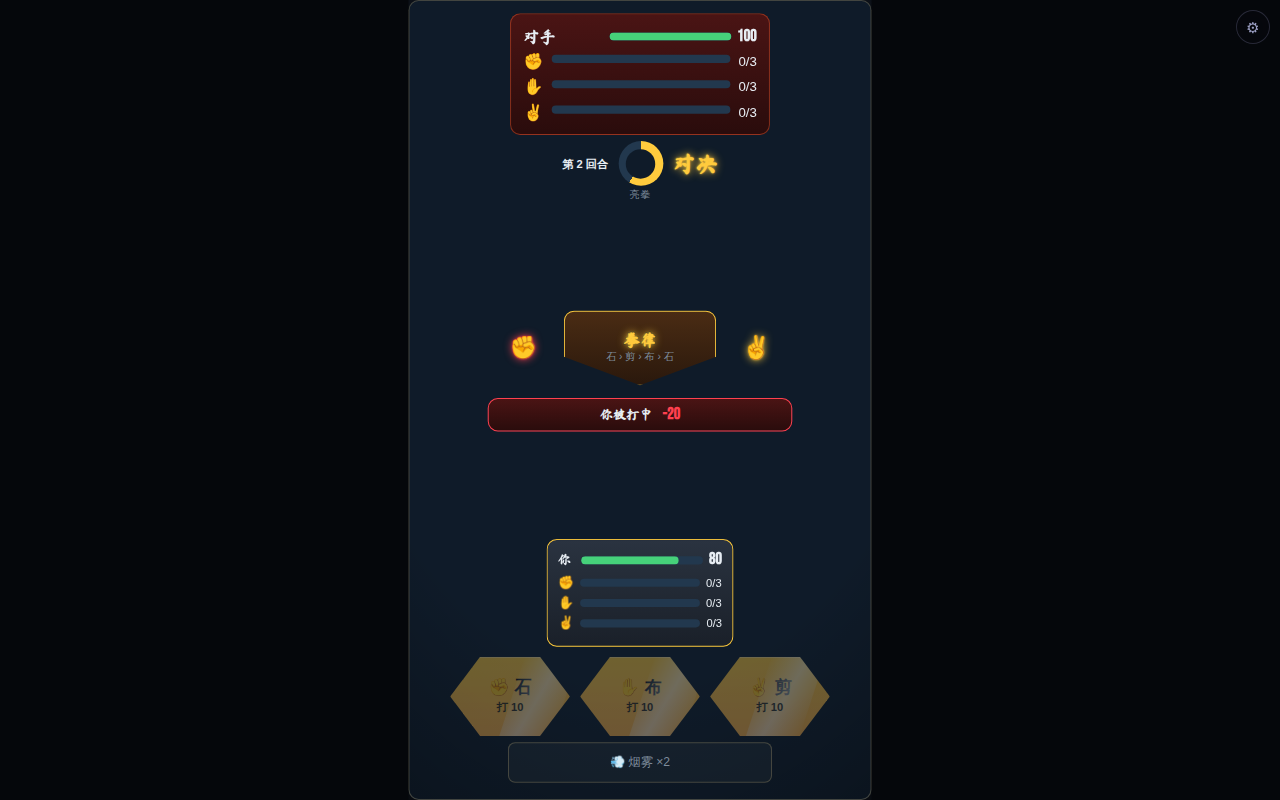
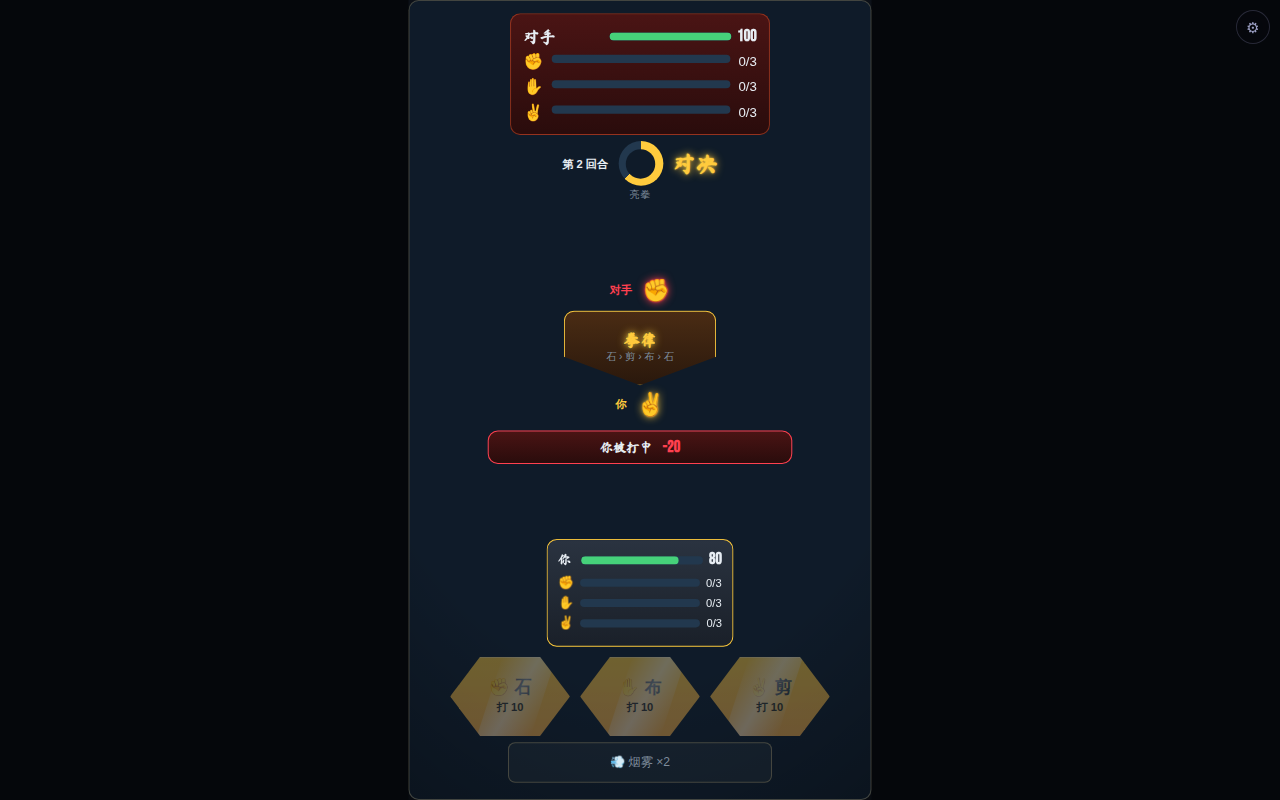
fix(game108): 亮手的**归属与时效**——owner 一句「哪个是我出的」问出两处硬伤
**归属**：揭晓时两只拳左右排、**屏上零文字**，玩家不知道哪只是自己出的。唯一区别是颜色
（金=你/红=对手），而这个约定从没告诉过玩家；更糟的是面板本身是**上下**布局（对手在上、
你在下），亮手却是**左右** ⇒ 空间映射直接断了。
→ 改**上下排 + 每侧带名字**（「对手 ✊」/「你 ✋」），与面板上下关系严丝合缝。

**时效**（顺着上一条查出来的，更隐蔽）：亮手读 `lastThrow`、结果读血量差，**两者都要等结算**，
而结算比「进揭晓」晚一拍 ⇒ 揭晓头一段摆的是**上一回合**的手和伤害——
真渲染目击：我明明出了布，屏上写「你 ✌剪 · 你被打中 -20」。
→ 用回合数判「本回合结算落地没有」（结算会把 round +1），没落地就不亮手、不出结果。
→ 试玩探针同步补等结算再拍，否则拍到的是上一回合（探针自己也踩了这个坑）。

**制度化**：`self-check.md` 七问 → **八问**，新增
「**屏上每样东西，玩家知道它是谁的、是哪一刻的吗？**（归属 + 时效）」，并进 S4 复查清单。
写清补它的教训：**前七问全在问「信息在不在」，没有一问在问「这信息是谁的、是哪一刻的」。**

试玩 30 条全过 · 门禁 full 全绿（退出码核对）。

Claude-Session: https://claude.ai/code/session_01CxgHiwPr3Q9y3548zpXfcV

diff --git a/games/game108/game108.ts b/games/game108/game108.ts
@@ -48,21 +48,29 @@ export function mount(container: HTMLElement): () => void {
     for (const s of SIDES) {
       if (prevHp[s] > hp[s]) lastOutcome = { winner: s === 'p1' ? 'p2' : 'p1', damage: prevHp[s] - hp[s] };
     }
-    if (phase === 'clash' && prevPhase !== 'clash') tieThisRound = true;      // 进对决先假定平局
+    const round = num('round') || 1;
+    // **本回合结算落地了没有**（真渲染目击到的坑）：亮手读的是 `lastThrow`、结果读的是血量差，
+    // 而这两样都要等结算那一拍才更新——结算比「进对决」晚一拍。不判这个，进对决的头一小段
+    // 屏上摆的是**上一回合**的手和伤害：我明明出了布，屏上写「你 ✌剪 · 被打中 -20」。
+    // 判据用回合数：结算会把 `round` +1，所以 `round > roundAtClash` ⇔ 本回合已结算。
+    if (phase === 'clash' && prevPhase !== 'clash') { roundAtClash = round; lastOutcome = undefined; tieThisRound = true; }
+    const settled = round > roundAtClash;
     if (lastOutcome && lastOutcome.damage > 0) tieThisRound = false;
     prevHp = { ...hp }; prevPhase = phase;
 
     return {
       phase,
       phaseLeft: total > 0 ? Math.max(0, 1 - elapsed / total) : 0,
-      round: num('round') || 1,
+      round,
       hp,
       charge,
       smoke: { uses: num('smoke:uses:p1'), hidden: !!(engine.world.getComponent('smoke:res:p1', 'Flag') as { active: boolean } | undefined)?.active },
       ...(intent ? { submitted: intent.throw } : {}),
-      ...(phase === 'clash' || phase === 'settle' ? { shown } : {}),
-      ...(lastOutcome ? { outcome: lastOutcome } : tieThisRound && (phase === 'clash' || phase === 'settle') && shown.p1 && shown.p2
-        ? { outcome: { winner: 'tie' as const, damage: 0 } } : {}),
+      // 只有本回合真结算了才亮手/出结果——否则揭晓期摆的是上一回合的数据（见上面 settled 注释）。
+      ...(settled && (phase === 'clash' || phase === 'settle') ? { shown } : {}),
+      ...(settled && lastOutcome ? { outcome: lastOutcome }
+        : settled && tieThisRound && (phase === 'clash' || phase === 'settle') && shown.p1 && shown.p2
+          ? { outcome: { winner: 'tie' as const, damage: 0 } } : {}),
     };
   }
 
@@ -70,6 +78,7 @@ export function mount(container: HTMLElement): () => void {
   let prevHp: Record<Side, number> = { p1: HP_MAX, p2: HP_MAX };
   let prevPhase: Phase = 'charge';
   let tieThisRound = false;
+  let roundAtClash = 0;
   let lastOutcome: { winner: Side | 'tie'; damage: number } | undefined;
 
   /**

diff --git a/games/game108/duel-screen.ts b/games/game108/duel-screen.ts
@@ -181,10 +181,31 @@ function tableRow(view: DuelView): LayoutNode {
       ? { text: HAND_ICON[shown[side]], size: 'xl', color: side === 'p1' ? 'gold' : 'danger', stroke: true, glow: true }
       : { text: '❔', size: 'lg', color: 'sub' },
   });
+  /** 一侧的亮手：**带名字**，且**上下排布与面板一致**（对手在上、你在下）。 */
+  const row = (side: Side, id: string, name: string): LayoutNode => ({
+    type: 'Panel', id: `${id}-row`, props: { bare: true },
+    layout: { direction: 'row', align: 'center', justify: 'center', gap: 10, width: 240 },
+    children: [
+      {
+        type: 'Label', id: `${id}-n`,
+        props: { text: name, size: 'sm', color: side === 'p1' ? 'gold' : 'danger', bold: true },
+      },
+      hand(side, id),
+    ],
+  });
   return {
+    // ⚠ **归属可读**（owner 2026-08-07 当场指出·我的七问整个漏了这一维）：
+    // 第一版是「对手的手 | 石板 | 你的手」**横排且零文字**——玩家看到左右两只拳，
+    // **根本不知道哪只是自己出的**。唯一区别是颜色（金=你/红=对手），而这个约定从没告诉过玩家；
+    // 更糟的是面板本身是**上下**布局（对手在上、你在下），亮手却是**左右** ⇒ 空间映射直接断了。
+    // 现在：**上下排 + 每侧带名字**，与面板的上下关系严丝合缝。
     type: 'Panel', id: 'table', props: { bare: true },
-    layout: { direction: 'row', align: 'center', justify: 'center', gap: revealed ? 26 : 18 },
-    children: [hand('p2', 'shown-p2'), ruleSlab(), hand('p1', 'shown-p1')],
+    layout: { direction: 'column', align: 'center', justify: 'center', gap: revealed ? 6 : 4 },
+    children: [
+      row('p2', 'shown-p2', '对手'),
+      ruleSlab(),
+      row('p1', 'shown-p1', '你'),
+    ],
   };
 }
 

diff --git a/docs/playbooks/self-check.md b/docs/playbooks/self-check.md
@@ -21,7 +21,7 @@
 3. **修 → 再玩 → 更新对齐单**，循环到 ❌ 清零、⚠ 全部有裁决去向为止。每轮在对齐单尾追加一行迭代记录
    （第 N 轮·改了什么·剩几条）。
 
-## 读得懂吗·**玩家视角复核七问**（S4 对齐单必答·owner 2026-08-07 立）
+## 读得懂吗·**玩家视角复核八问**（S4 对齐单必答·owner 2026-08-07 立）
 
 > 立这条的复盘（game108·2026-08-07）：S4 全部机器证都绿了——验收剧本 10/10、递归复核 13 条零裸奔、
 > 真浏览器试玩 30 条断言、能打输也能打赢。**然后 owner 问了一句「你从玩家角度觉得表达清晰吗」，
@@ -40,6 +40,14 @@
 | 5 | **我知道现在在哪个阶段、还剩多久、第几回合吗？** | **S4**（状态可见性） |
 | 6 | **第一次打开的人，知道这些键干嘛吗？** 屏上的数字/图标有没有人解释过 | 教学设计（无则**明记为缺**） |
 | 7 | **有没有"世界侧通了但玩家点不到"的功能？** 逐条对动作词表点名核（词表里有、屏上没有 = 功能缺失，不是观感） | **S4**（功能缺失） |
+| **8** | **屏上每样东西，玩家知道它是谁的、是哪一刻的吗？**（**归属 + 时效**）指着屏上每个元素问「这是我的还是对方的」「这是这一回合的还是上一回合的」——答不出就是缺陷 | **S4**（状态可见性） |
+
+> **第 8 问是补的，补的过程本身就是教训**（同日·七问答完之后）：owner 指着揭晓画面问了一句
+> 「两个拳分别在左右两边，**哪个是我出的**？」——屏上零文字，唯一区别是颜色，而那个约定从没告诉过玩家；
+> 更糟的是面板是**上下**布局、亮手却是**左右**，空间映射直接断了。
+> 顺着这条又查出**时效**问题：亮手读的值要等结算才更新，而结算比进揭晓晚一拍 ⇒
+> 揭晓头一段摆的是**上一回合**的手和伤害（我出了布，屏上写「你 ✌剪·被打中」）。
+> **前七问全都在问「信息在不在」，没有一问在问「这信息是谁的、是哪一刻的」。** 故补第 8 问。
 
 **机器辅助**：`node scripts/ui-inventory.mjs --game <slug>` 打印「动作词表 vs 屏上真控件」的差集——
 第 7 问的机读部分（词表里有、屏上没有的会点名）。**其余六问是主观题，机器替不了，但必须作答。**

diff --git a/docs/design/game108/self-check/S4-alignment.md b/docs/design/game108/self-check/S4-alignment.md
@@ -64,6 +64,8 @@
 | 6 | 第一次打开的人知道键干嘛吗？ | ❌ 键上只有「10」没人解释 | 每个时区一句提示（「点一只手蓄力·对手看得见」）；键面副标改成「蓄力 → 20」/「打 30」 |
 | 7 | 有没有世界侧通了但玩家点不到的？ | ❌ **烟雾键根本不在屏上** | 补上烟雾键；**并做了机器检查** `scripts/ui-inventory.mjs`（词表 vs 屏上真控件差集）——它当场点名了 3 个够不着的动作 |
 
+| **8** | 屏上每样东西玩家知道是谁的、哪一刻的？ | ❌❌ **两处硬伤**（owner 当场指出，我的七问整个漏了这一维）：① 揭晓时两只拳左右排、**零文字**，玩家不知道哪只是自己的；且面板是上下布局、亮手却是左右，**空间映射断了** ② 亮手读 `lastThrow`、结果读血量差，两者都要等结算，而结算比进揭晓晚一拍 ⇒ 揭晓头一段摆的是**上一回合**的手和伤害（我出了布，屏上写「你 ✌剪 · 被打中 -20」） | ① 改**上下排 + 每侧带名字**（「对手 ✊」/「你 ✋」），与面板上下关系严丝合缝 ② 用回合数判「本回合结算落地没有」，没落地就不亮手不出结果 |
+
 **第 7 问的机器检查现况**：`smoke.use` 已补；`duel.next` / `shard.pick` 仍够不着——
 它们依赖局间流程与遗物通路（`REQ-108-ENG-08` 待 owner 判），**如实留红不掩盖**。
 
@@ -101,3 +103,7 @@
 - **第 2 轮（2026-08-07）**：补做**玩家视角复核七问**（owner 追问逼出来的·现已写进 self-check 手册）。
   七条全部有修法落地，另抓到两处只有看图才看得见的（全角减号无字形 / Badge dim 低对比）。
   剩余 ❌：`duel.next` / `shard.pick` 够不着（依赖 ENG-08 待判）、tell 立绘（S5/S6）。**仍未达 ❌ 清零。**
+- **第 3 轮（2026-08-07）**：owner 指着揭晓画面问「两个拳分别在左右两边，**哪个是我出的**？」
+  → 补出**第 8 问（归属 + 时效）**并写进手册。当场修两处硬伤：亮手无归属、揭晓期显示上一回合数据。
+  另修终局死路（赢了中区还在念「对手还没开始攒力」·对局键还亮着·无出口）。
+  **教训**：前七问全在问「信息在不在」，**没有一问在问「这信息是谁的、是哪一刻的」**。
